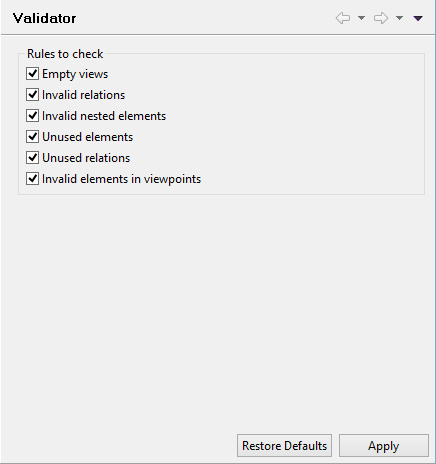
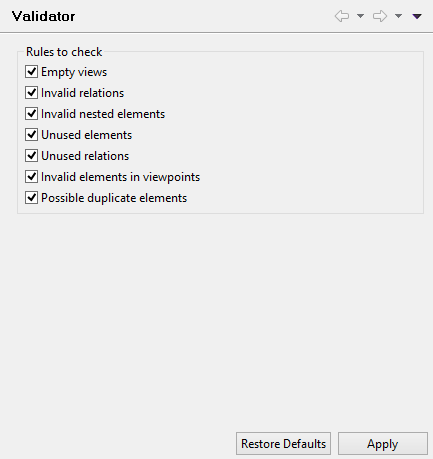
[Hammer] Add duplicate name checker

Changed region(s): [[0.0, 0.0, 1.0, 1.0], [0.3603, 0.366, 0.4804, 0.3965]]

diff --git a/com.archimatetool.help/help/Text/validator.html b/com.archimatetool.help/help/Text/validator.html
@@ -21,6 +21,7 @@
         <li>Unused elements (not referenced in a View)</li>
         <li>Unused relations (not referenced in a View)</li>
         <li>Invalid elements in viewpoints (elements that don't belong in a viewpoint)</li>
+        <li>Duplicate element names for the same element type</li>
     </ul>
     
     <p>The Validator window can be opened from the main "Tools" menu, from the main toolbar, or from the main "Window" menu.</p>

diff --git a/com.archimatetool.hammer/src/com/archimatetool/hammer/view/ValidatorView.java b/com.archimatetool.hammer/src/com/archimatetool/hammer/view/ValidatorView.java
@@ -26,7 +26,9 @@ import org.eclipse.jface.resource.ImageDescriptor;
 import org.eclipse.jface.viewers.DoubleClickEvent;
 import org.eclipse.jface.viewers.IDoubleClickListener;
 import org.eclipse.jface.viewers.ISelection;
+import org.eclipse.jface.viewers.ISelectionChangedListener;
 import org.eclipse.jface.viewers.IStructuredSelection;
+import org.eclipse.jface.viewers.SelectionChangedEvent;
 import org.eclipse.jface.viewers.StructuredSelection;
 import org.eclipse.swt.SWT;
 import org.eclipse.swt.custom.BusyIndicator;
@@ -50,6 +52,7 @@ import com.archimatetool.editor.ArchimateEditorPlugin;
 import com.archimatetool.editor.diagram.IArchimateDiagramEditor;
 import com.archimatetool.editor.diagram.IDiagramModelEditor;
 import com.archimatetool.editor.model.IEditorModelManager;
+import com.archimatetool.editor.ui.ArchimateLabelProvider;
 import com.archimatetool.editor.ui.services.EditorManager;
 import com.archimatetool.editor.ui.services.ViewManager;
 import com.archimatetool.editor.utils.PlatformUtils;
@@ -80,7 +83,7 @@ implements IValidatorView, ISelectionListener, IContextProvider, ITabbedProperty
     private IAction fActionShowPreferences;
     
     private IArchimateModel fModel;
-
+    
     public ValidatorView() {
     }
 
@@ -95,6 +98,12 @@ implements IValidatorView, ISelectionListener, IContextProvider, ITabbedProperty
         fViewer.addDoubleClickListener(new IDoubleClickListener() {
             public void doubleClick(DoubleClickEvent event) {
                 selectObjects((IStructuredSelection)event.getSelection());
+            }
+        });
+        
+        fViewer.addSelectionChangedListener(new ISelectionChangedListener() {
+            public void selectionChanged(SelectionChangedEvent event) {
+                updateMenuItems((IStructuredSelection)event.getSelection());
             }
         });
         
@@ -170,6 +179,7 @@ implements IValidatorView, ISelectionListener, IContextProvider, ITabbedProperty
                 return AbstractUIPlugin.imageDescriptorFromPlugin("com.archimatetool.help", "img/hint-16.png"); //$NON-NLS-1$ //$NON-NLS-2$
             }
         };
+        fActionExplain.setEnabled(false);
         
         fActionSelectObjects = new Action(Messages.ValidatorView_2) {
             @Override
@@ -244,20 +254,15 @@ implements IValidatorView, ISelectionListener, IContextProvider, ITabbedProperty
      */
     private void fillContextMenu(IMenuManager manager) {
         IStructuredSelection selection = (IStructuredSelection)getViewer().getSelection();
-        boolean hasIssueSelected = false;
+
+        manager.add(fActionValidate);
+        manager.add(new Separator());
         
-        for(Object o : selection.toArray()) {
-            if(o instanceof IIssue && ((IIssue)o).getObject() != null) {
-                hasIssueSelected = true;
-                break;
-            }
+        if(isIssueObjectSelected(selection)) {
+            manager.add(fActionSelectObjects);
         }
         
-        manager.add(fActionValidate);
-        
-        if(hasIssueSelected) {
-            manager.add(new Separator());
-            manager.add(fActionSelectObjects);
+        if(isIssueSelected(selection)) {
             manager.add(fActionExplain);
         }
         
@@ -336,12 +341,47 @@ implements IValidatorView, ISelectionListener, IContextProvider, ITabbedProperty
     public void validateModel() {
         BusyIndicator.showWhile(null, new Runnable() {
             public void run() {
+                updateStatusBar();
                 Validator validator = new Validator(fModel);
                 List<Object> result = validator.validate();
                 fViewer.setInput(result);
                 fViewer.expandAll();
             }
         });
+    }
+    
+    private void updateStatusBar() {
+        if(fModel != null) {
+            getViewSite().getActionBars().getStatusLineManager().setMessage(ArchimateLabelProvider.INSTANCE.getImage(fModel),
+                    ArchimateLabelProvider.INSTANCE.getLabel(fModel));
+        }
+        else {
+            getViewSite().getActionBars().getStatusLineManager().setMessage(null, ""); //$NON-NLS-1$
+        }
+    }
+    
+    private void updateMenuItems(IStructuredSelection selection) {
+        fActionExplain.setEnabled(isIssueSelected(selection));
+    }
+    
+    private boolean isIssueSelected(IStructuredSelection selection) {
+        for(Object o : selection.toArray()) {
+            if(o instanceof IIssue) {
+                return true;
+            }
+        }
+        return false;
+    }
+    
+    private boolean isIssueObjectSelected(IStructuredSelection selection) {
+        for(Object o : selection.toArray()) {
+            if(o instanceof IIssue && ((IIssue)o).getObject() != null) {
+                if(((IIssue)o).getObject() != null) {
+                    return true;
+                }
+            }
+        }
+        return false;
     }
     
     @SuppressWarnings("rawtypes")

diff --git a/com.archimatetool.hammer/src/com/archimatetool/hammer/validation/checkers/DuplicateElementChecker.java b/com.archimatetool.hammer/src/com/archimatetool/hammer/validation/checkers/DuplicateElementChecker.java
@@ -1,0 +1,75 @@
+/**
+ * This program and the accompanying materials
+ * are made available under the terms of the License
+ * which accompanies this distribution in the file LICENSE.txt
+ */
+package com.archimatetool.hammer.validation.checkers;
+
+import java.util.ArrayList;
+import java.util.LinkedHashSet;
+import java.util.List;
+import java.util.Set;
+
+import org.eclipse.osgi.util.NLS;
+
+import com.archimatetool.editor.ui.ArchimateLabelProvider;
+import com.archimatetool.editor.utils.StringUtils;
+import com.archimatetool.hammer.validation.Validator;
+import com.archimatetool.hammer.validation.issues.IIssue;
+import com.archimatetool.hammer.validation.issues.WarningType;
+import com.archimatetool.model.IArchimateElement;
+
+
+/**
+ * Checks for possible duplicates of elements of the same type
+ * 
+ * @author Phillip Beauvoir
+ */
+public class DuplicateElementChecker extends AbstractChecker {
+    
+    final String NAME = Messages.DuplicateElementChecker_0;
+    final String DESCRIPTION = Messages.DuplicateElementChecker_1;
+    final String EXPLANATION = Messages.DuplicateElementChecker_2;
+
+    public DuplicateElementChecker(Validator validator) {
+        super(validator);
+    }
+
+    public List<IIssue> getIssues() {
+        return findDuplicateNamesElements();
+    }
+    
+    List<IIssue> findDuplicateNamesElements() {
+        List<IIssue> issues = new ArrayList<IIssue>();
+        
+        Set<IArchimateElement> dupes = new LinkedHashSet<IArchimateElement>();
+        
+        for(int i = 0; i < archimateElements.size(); i++) {
+            for(int j = i + 1; j < archimateElements.size(); j++) {
+                IArchimateElement element1 = archimateElements.get(i);
+                IArchimateElement element2 = archimateElements.get(j);
+                if(isDuplicate(element1, element2)) {
+                    dupes.add(element1);
+                    dupes.add(element2);
+                }
+            }
+        }
+        
+        for(IArchimateElement element : dupes) {
+            String description = NLS.bind(DESCRIPTION, new Object[] { element.getName(),
+                    ArchimateLabelProvider.INSTANCE.getDefaultName(element.eClass()) });
+
+            IIssue issue = new WarningType(NAME, description, EXPLANATION, element);
+            issues.add(issue);
+        }
+        
+        return issues;
+    }
+    
+    private boolean isDuplicate(IArchimateElement element1, IArchimateElement element2) {
+        String name1 = StringUtils.safeString(element1.getName());
+        String name2 = StringUtils.safeString(element2.getName());
+        
+        return name1.equals(name2) && (element1.eClass() == element2.eClass());
+    }
+}

diff --git a/com.archimatetool.hammer/src/com/archimatetool/hammer/validation/Validator.java b/com.archimatetool.hammer/src/com/archimatetool/hammer/validation/Validator.java
@@ -14,6 +14,7 @@ import org.eclipse.jface.preference.IPreferenceStore;
 
 import com.archimatetool.hammer.ArchiHammerPlugin;
 import com.archimatetool.hammer.preferences.IPreferenceConstants;
+import com.archimatetool.hammer.validation.checkers.DuplicateElementChecker;
 import com.archimatetool.hammer.validation.checkers.EmptyViewsChecker;
 import com.archimatetool.hammer.validation.checkers.IChecker;
 import com.archimatetool.hammer.validation.checkers.InvalidRelationsChecker;
@@ -124,6 +125,11 @@ public class Validator {
         // Nested elements
         if(store.getBoolean(IPreferenceConstants.PREFS_HAMMER_CHECK_NESTING)) {
             collectIssues(new NestedElementsChecker(this));
+        }
+
+        // Possible Duplicates
+        if(store.getBoolean(IPreferenceConstants.PREFS_HAMMER_CHECK_DUPLICATE_ELEMENTS)) {
+            collectIssues(new DuplicateElementChecker(this));
         }
 
         // ----------------------------------------------------------

diff --git a/com.archimatetool.hammer/src/com/archimatetool/hammer/validation/checkers/Messages.java b/com.archimatetool.hammer/src/com/archimatetool/hammer/validation/checkers/Messages.java
@@ -6,6 +6,12 @@ public class Messages extends NLS {
 
     private static final String BUNDLE_NAME = "com.archimatetool.hammer.validation.checkers.messages"; //$NON-NLS-1$
 
+    public static String DuplicateElementChecker_0;
+
+    public static String DuplicateElementChecker_1;
+
+    public static String DuplicateElementChecker_2;
+
     public static String EmptyViewsChecker_0;
 
     public static String EmptyViewsChecker_1;
@@ -29,8 +35,6 @@ public class Messages extends NLS {
     public static String NestedElementsChecker_2;
 
     public static String NestedElementsChecker_3;
-
-    public static String NestedElementsChecker_4;
 
     public static String UnusedElementsChecker_0;
 

diff --git a/com.archimatetool.hammer/src/com/archimatetool/hammer/preferences/ValidatorPreferencePage.java b/com.archimatetool.hammer/src/com/archimatetool/hammer/preferences/ValidatorPreferencePage.java
@@ -40,7 +40,8 @@ implements IWorkbenchPreferencePage, IPreferenceConstants {
             PREFS_HAMMER_CHECK_NESTING, Messages.ValidatorPreferencePage_2,
             PREFS_HAMMER_CHECK_UNUSED_ELEMENTS, Messages.ValidatorPreferencePage_3,
             PREFS_HAMMER_CHECK_UNUSED_RELATIONS, Messages.ValidatorPreferencePage_4,
-            PREFS_HAMMER_CHECK_VIEWPOINT, Messages.ValidatorPreferencePage_5
+            PREFS_HAMMER_CHECK_VIEWPOINT, Messages.ValidatorPreferencePage_5,
+            PREFS_HAMMER_CHECK_DUPLICATE_ELEMENTS, Messages.ValidatorPreferencePage_7
     };
     
 	public ValidatorPreferencePage() {

diff --git a/com.archimatetool.hammer/src/com/archimatetool/hammer/validation/checkers/NestedElementsChecker.java b/com.archimatetool.hammer/src/com/archimatetool/hammer/validation/checkers/NestedElementsChecker.java
@@ -33,9 +33,7 @@ public class NestedElementsChecker extends AbstractChecker {
     final String fName = Messages.NestedElementsChecker_0;
     final String fDescription = Messages.NestedElementsChecker_1;
     final String fExplanation = Messages.NestedElementsChecker_2 +
-                                      Messages.NestedElementsChecker_3 +
-                                      Messages.NestedElementsChecker_4;
-
+                                      Messages.NestedElementsChecker_3;
     public NestedElementsChecker(Validator validator) {
         super(validator);
     }

diff --git a/com.archimatetool.hammer/src/com/archimatetool/hammer/preferences/IPreferenceConstants.java b/com.archimatetool.hammer/src/com/archimatetool/hammer/preferences/IPreferenceConstants.java
@@ -21,5 +21,6 @@ public interface IPreferenceConstants {
     String PREFS_HAMMER_CHECK_UNUSED_ELEMENTS = "checkUnusedElements"; //$NON-NLS-1$
     String PREFS_HAMMER_CHECK_UNUSED_RELATIONS = "checkUnusedRelations"; //$NON-NLS-1$
     String PREFS_HAMMER_CHECK_VIEWPOINT = "checkViewpoint"; //$NON-NLS-1$
+    String PREFS_HAMMER_CHECK_DUPLICATE_ELEMENTS = "checkDuplicateElements"; //$NON-NLS-1$
     
 }

diff --git a/com.archimatetool.hammer/src/com/archimatetool/hammer/preferences/Messages.java b/com.archimatetool.hammer/src/com/archimatetool/hammer/preferences/Messages.java
@@ -19,6 +19,8 @@ public class Messages extends NLS {
     public static String ValidatorPreferencePage_5;
 
     public static String ValidatorPreferencePage_6;
+
+    public static String ValidatorPreferencePage_7;
     static {
         // initialize resource bundle
         NLS.initializeMessages(BUNDLE_NAME, Messages.class);

diff --git a/com.archimatetool.hammer/src/com/archimatetool/hammer/preferences/PreferenceInitializer.java b/com.archimatetool.hammer/src/com/archimatetool/hammer/preferences/PreferenceInitializer.java
@@ -30,5 +30,6 @@ implements IPreferenceConstants {
 		store.setDefault(PREFS_HAMMER_CHECK_UNUSED_ELEMENTS, true);
 		store.setDefault(PREFS_HAMMER_CHECK_UNUSED_RELATIONS, true);
 		store.setDefault(PREFS_HAMMER_CHECK_VIEWPOINT, true);
+        store.setDefault(PREFS_HAMMER_CHECK_DUPLICATE_ELEMENTS, true);
     }
 }
